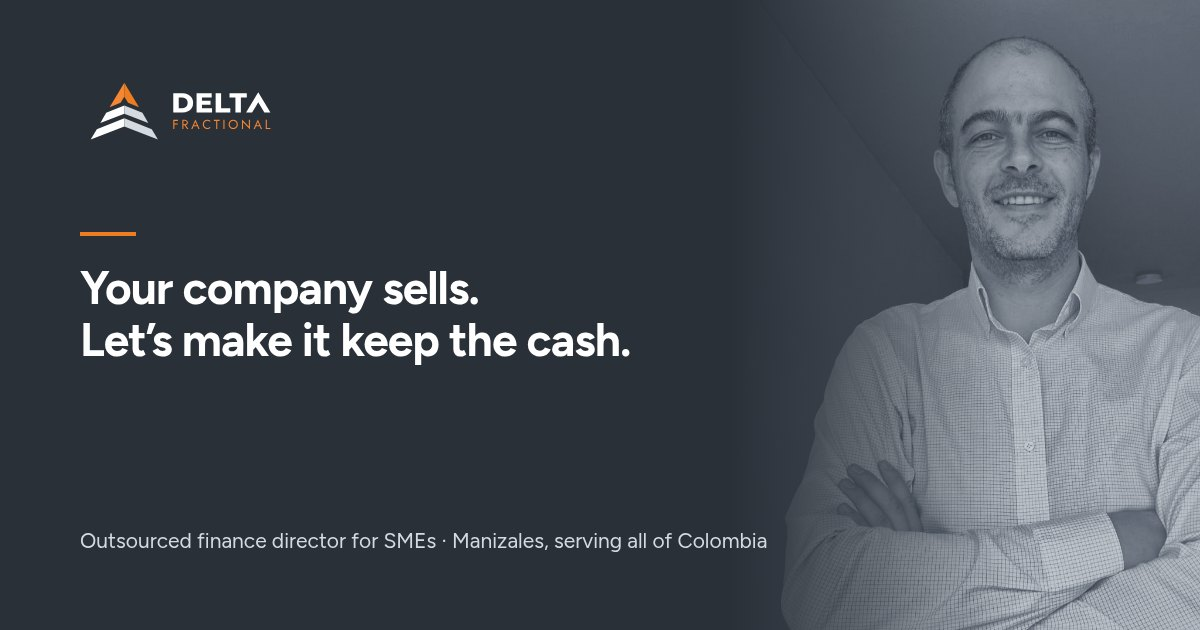
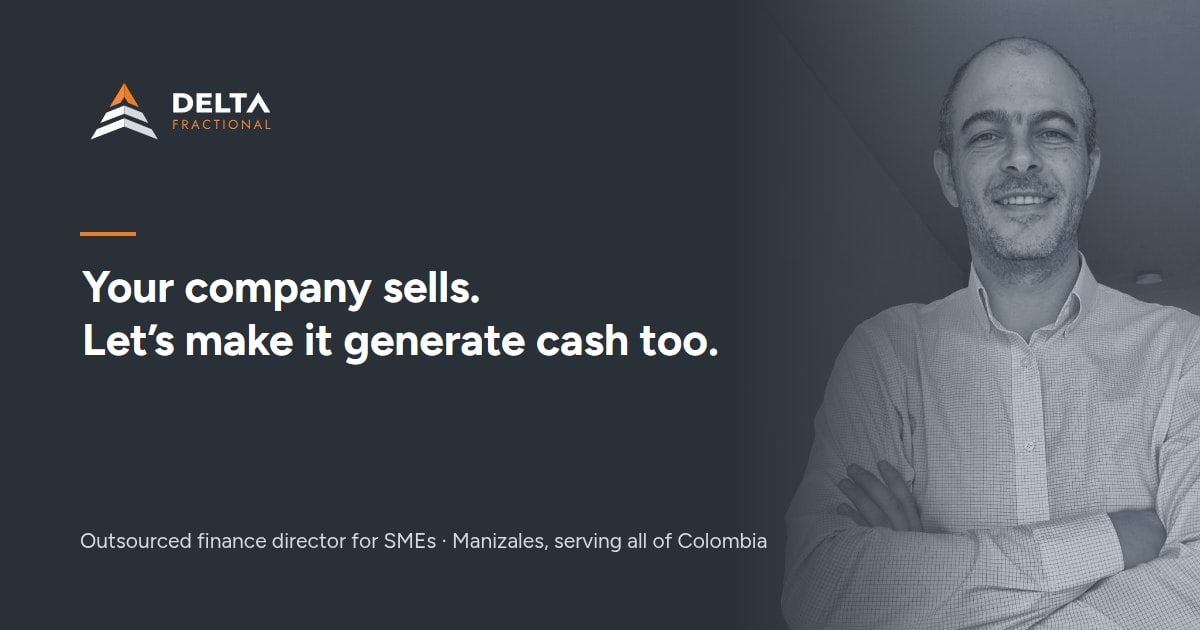
Titular: "genere caja" en vez de "deje plata"
Hero, texto alternativo e imagen para compartir en ES y EN (en inglés,
"generate cash too"). El titular de las imágenes OG se reescribió sobre
la misma imagen con Figtree Bold 44 px, calibrado contra el original.
La frase subrayada ya no se parte entre dos líneas en el celular.

Changed region(s): [[0.0617, 0.4222, 0.6167, 0.573]]

diff --git a/src/styles/global.css b/src/styles/global.css
@@ -71,7 +71,8 @@ h3 { font-size: var(--fs-h3); line-height: var(--lh-h3); letter-spacing: var(--l
 .sub { font-size: var(--fs-sub); line-height: var(--lh-sub); color: var(--ink-2); }
 .muted { color: var(--ink-2); }
 .small { font-size: var(--fs-small); line-height: var(--lh-small); }
-.subrayado { box-shadow: inset 0 -0.14em 0 var(--accent); -webkit-box-decoration-break: clone; box-decoration-break: clone; }
+/* nowrap: la frase subrayada ("genere caja") no se parte entre dos líneas en el celular. */
+.subrayado { box-shadow: inset 0 -0.14em 0 var(--accent); -webkit-box-decoration-break: clone; box-decoration-break: clone; white-space: nowrap; }
 
 /* Botones */
 .btn {
